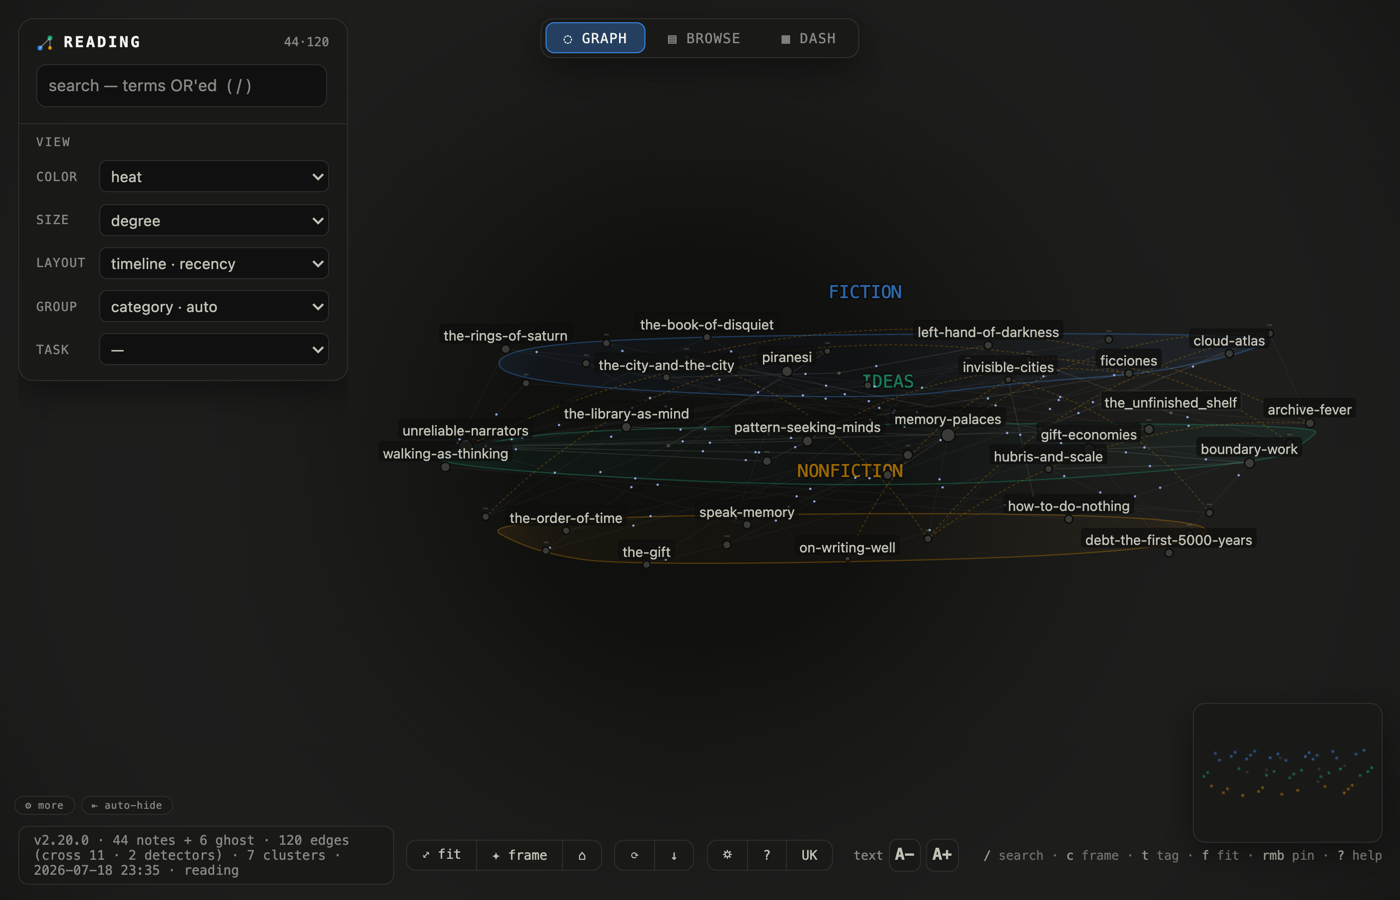
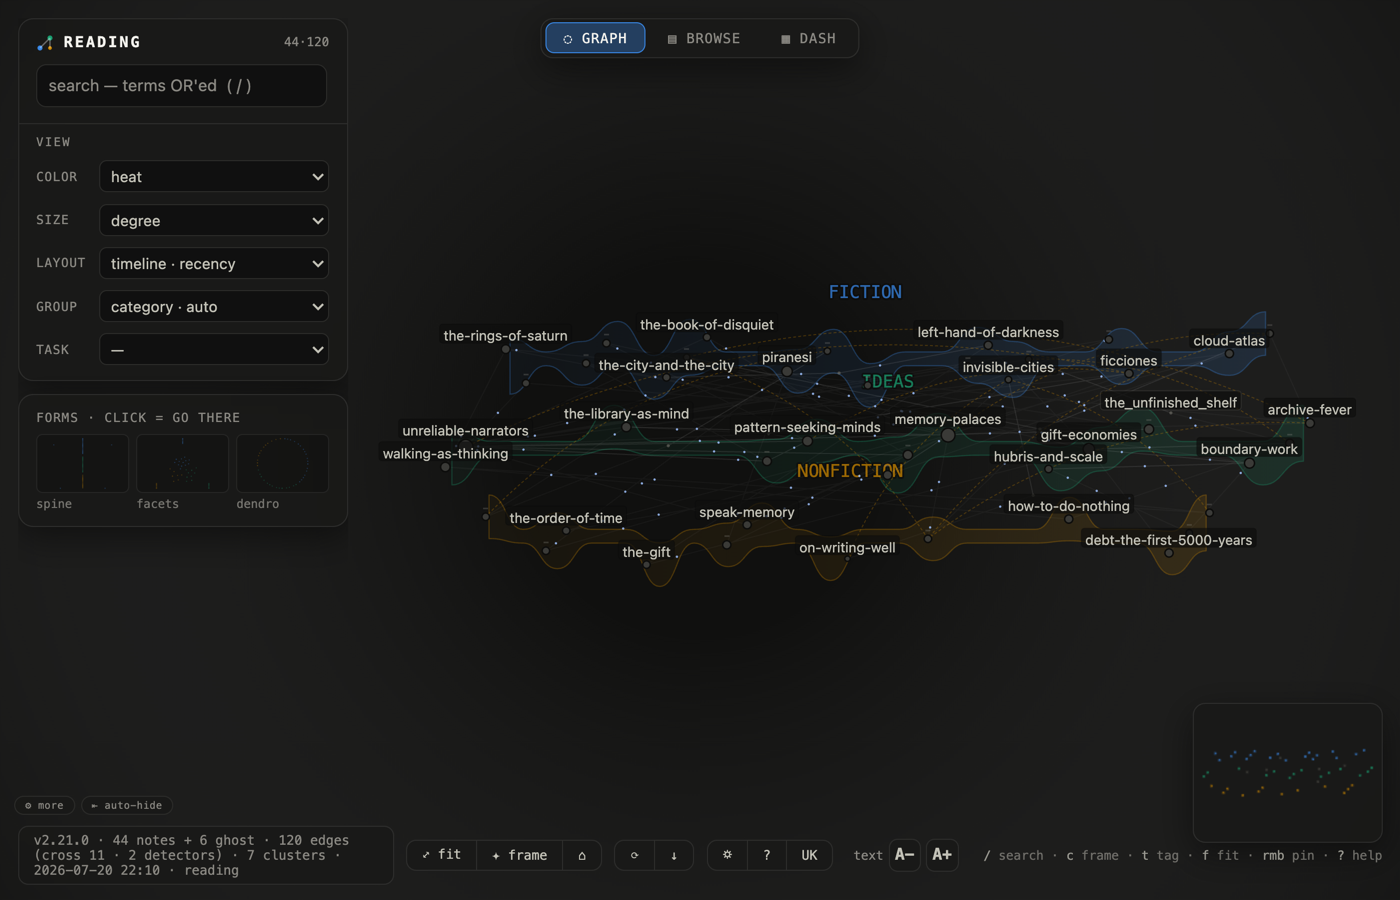
chore(gallery): 2.21.0 — strata and the dendro wedge get their frames
Version and the atlas-tpl meta move together (the self-test enforces the pair).
Two new gallery cases shot from the checked-in example vaults with --anon, same
deterministic flags as the rest of the set.

diff --git a/memory-atlas.template.html b/memory-atlas.template.html
@@ -3,7 +3,7 @@
 <head>
 <meta charset="utf-8">
 <meta name="viewport" content="width=device-width, initial-scale=1">
-<meta name="atlas-tpl" content="2.20.0"><!-- G5 handshake: must equal generator VERSION; the generator warns on skew (stale symlink pair) -->
+<meta name="atlas-tpl" content="2.21.0"><!-- G5 handshake: must equal generator VERSION; the generator warns on skew (stale symlink pair) -->
 
 <title>memory-atlas</title>
 <style>
@@ -4851,7 +4851,9 @@ function layoutTargets(name) {
       });
     });
     // the cage: two plates (top/bottom) + four verticals, one static Path2D, one stroke a frame
-    const E = P * 1.16, hi = top + gap * 0.55, lo = top - (zs.length - 1) * gap - gap * 0.55;
+    // the cage hugs the plates: at 1.16 the box read as a room the strata were lost inside,
+    // and the reference's box is a frame around the sediment, not a hall
+    const E = P * 0.94, hi = top + gap * 0.5, lo = top - (zs.length - 1) * gap - gap * 0.5;
     const corners = [[-E, -E], [E, -E], [E, E], [-E, E]];
     layoutDecor = new Path2D();
     for (const h of [hi, lo]) {
